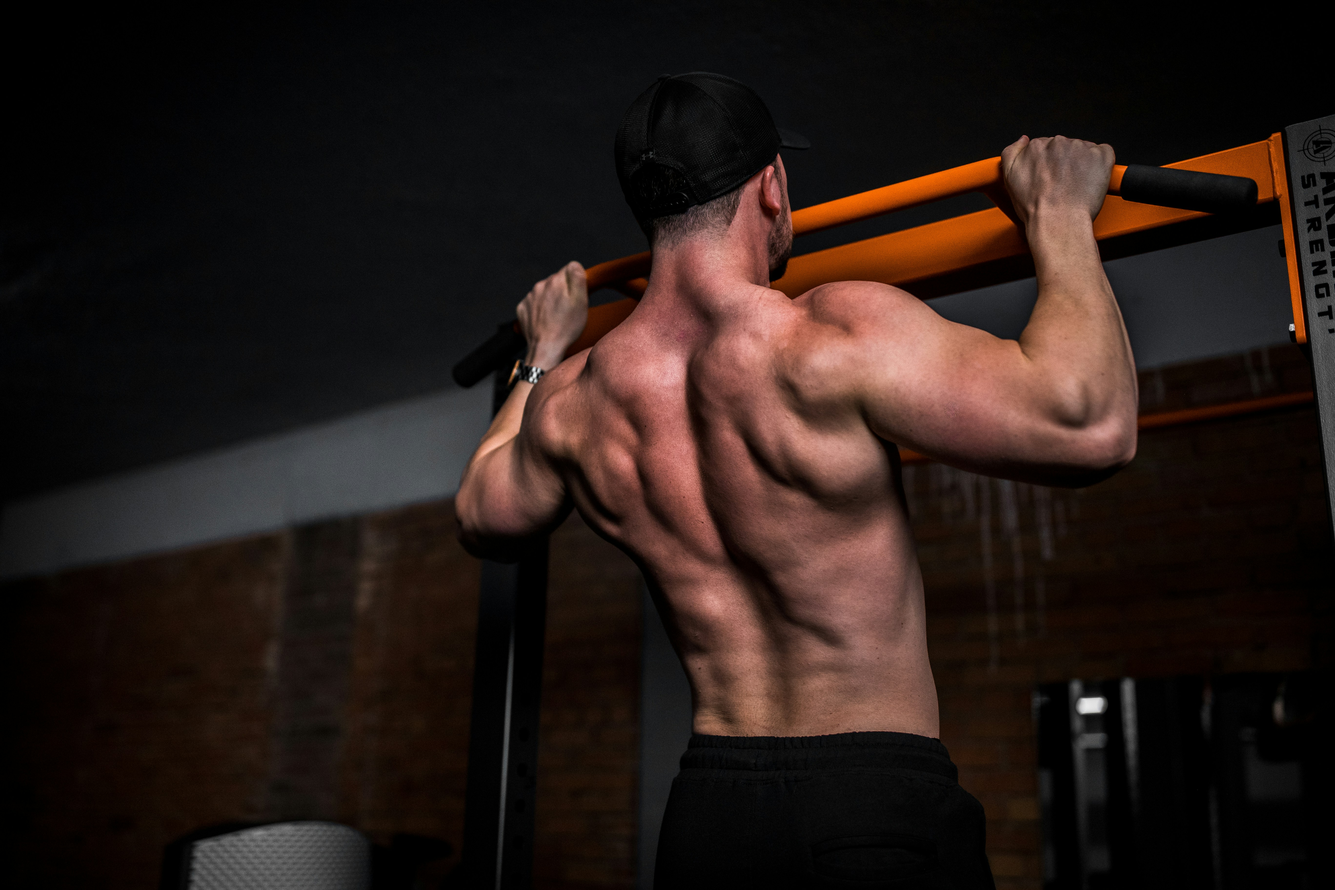
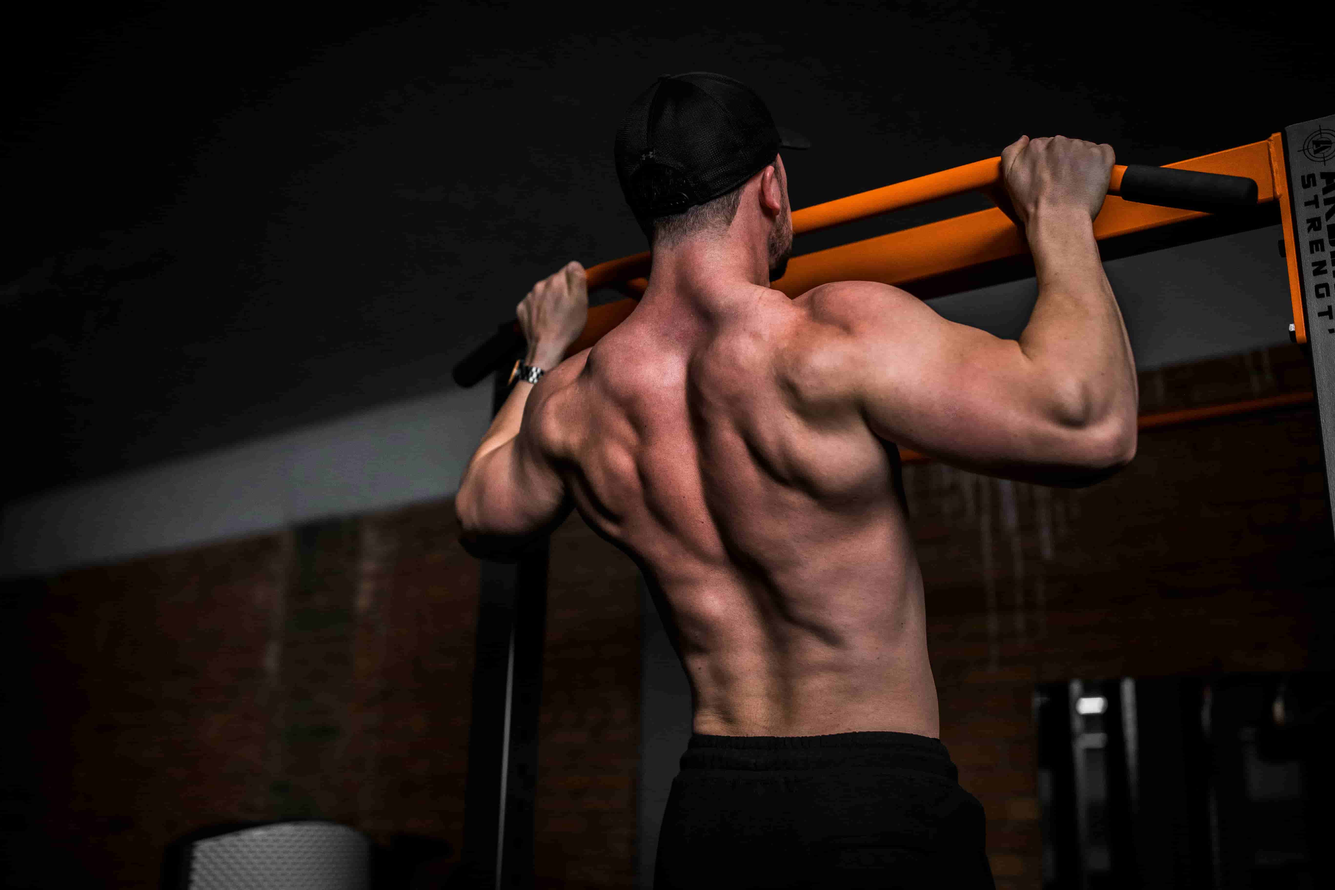
Compressed images for faster loading times

Changed region(s): [[0.5, 0.2188, 0.5625, 0.2812]]

diff --git a/src/pages/Home.jsx b/src/pages/Home.jsx
@@ -1,75 +1,109 @@
-import React from "react"
-import Container from 'react-bootstrap/Container';
+import React from "react";
+import Container from "react-bootstrap/Container";
 import HomeCard from "../components/HomeCard";
 import PlansCard from "../components/PlansCard";
-import { NavLink } from 'react-router-dom'
+import { NavLink } from "react-router-dom";
 // Images Imports
-import HomeLifting from '../images/home_lifting.jpg'
-import NutritionPic from '../images/nutrition_pic.jpg'
-import FlexIconRed from '../images/flex_icon_red.png'
-import NutritionIconRed from '../images/nutrition_icon_red.png'
+import HomeLifting from "../images/home_lifting.jpg";
+import NutritionPic from "../images/nutrition_pic.jpg";
+import FlexIconRed from "../images/flex_icon_red.png";
+import NutritionIconRed from "../images/nutrition_icon_red.png";
 
 export default function Home() {
+  const loremText =
+    "Lorem ipsum dolor sit amet, consectetur adipiscing elit, sed do eiusmod tempor incididunt ut labore et";
 
-    const loremText = "Lorem ipsum dolor sit amet, consectetur adipiscing elit, sed do eiusmod tempor incididunt ut labore et"
+  return (
+    <>
+      <div className="home-hero">
+        <Container>
+          <h1 className="home-title">
+            Transform your body. Transform your{" "}
+            <span style={{ color: "#E73539" }}>life</span>
+          </h1>
+        </Container>
+      </div>
+      <Container>
+        <HomeCard />
+      </Container>
 
-    return (
-        <>
-            <div className="home-hero">
-                <Container>
-                    <h1 className="home-title">Transform your body. Transform your <span style={{color: '#E73539'}}>life</span></h1>
-                </Container>
+      <main>
+        <section className="home-section-fitness">
+          <Container className="section home-section">
+            <div className="section-text-container home-section-text-container">
+              <h2 className="section-heading home-section-heading">Fitness</h2>
+              <p className="home-section-text">
+                Unlock your fitness potential through three distinct sub-tabs.
+                Dive into Anatomy for muscle-specific lifts, calculate your
+                one-rep max in Calculator, and master progressive overload in
+                Progression. Everything you need for a well-rounded fitness
+                experience, all in one place.
+              </p>
+              {/* Will add href prop later to Btn */}
+              <NavLink to={"fitness"} className="learn-more-link">
+                Learn More
+              </NavLink>
+              {/* <a className="learn-more-link" href="/fitness">Learn More</a> */}
             </div>
-            <Container>
-                <HomeCard />
-            </Container>
-            
-            <main>
-                <section className="home-section-fitness">
-                    <Container className="section home-section">
-                        <div className="section-text-container home-section-text-container">    
-                            <h2 className="section-heading home-section-heading">Fitness</h2>
-                            <p className="home-section-text">Unlock your fitness potential through three distinct sub-tabs. 
-                            Dive into Anatomy for muscle-specific lifts, calculate your one-rep max in Calculator,
-                             and master progressive overload in Progression. Everything you need for a well-rounded 
-                             fitness experience, all in one place.</p>
-                            {/* Will add href prop later to Btn */}
-                            <NavLink to={'fitness'} className="learn-more-link">Learn More</NavLink>
-                            {/* <a className="learn-more-link" href="/fitness">Learn More</a> */}
-                        </div>  
-                        <img className="home-section-img home-section-fitness-img" src={HomeLifting} alt="" srcset="" />
-                    </Container>
-                </section>
+            <img
+              className="home-section-img home-section-fitness-img"
+              src={HomeLifting}
+              alt=""
+              srcSet=""
+            />
+          </Container>
+        </section>
 
-                <section className="home-section-nutrition">
-                    <Container className="section home-section">
-                        <div className="section-text-container home-section-text-container">    
-                            <h2 className="section-heading home-section-heading">Nutrition</h2>
-                            <p className="home-section-text">Dive into a world of health and vitality with our Nutrition page. Whether 
-                            you're curious about your BMI or striving for balanced macronutrients, we've got you covered. Calculate your 
-                            BMI to track your fitness journey or fine-tune your diet with our Macro Nutrient Calculator.</p>
-                            {/* Will add href prop later to Btn */}
-                            <NavLink to={'nutrition'} className="learn-more-link">Learn More</NavLink>
-                        </div>  
-                        <img className="home-section-img home-section-nutrition-img" src={NutritionPic} alt="" srcset="" />
-                    </Container>
-                </section>
+        <section className="home-section-nutrition">
+          <Container className="section home-section">
+            <div className="section-text-container home-section-text-container">
+              <h2 className="section-heading home-section-heading">
+                Nutrition
+              </h2>
+              <p className="home-section-text">
+                Dive into a world of health and vitality with our Nutrition
+                page. Whether you're curious about your BMI or striving for
+                balanced macronutrients, we've got you covered. Calculate your
+                BMI to track your fitness journey or fine-tune your diet with
+                our Macro Nutrient Calculator.
+              </p>
+              {/* Will add href prop later to Btn */}
+              <NavLink to={"nutrition"} className="learn-more-link">
+                Learn More
+              </NavLink>
+            </div>
+            <img
+              className="home-section-img home-section-nutrition-img"
+              src={NutritionPic}
+              alt=""
+              srcSet=""
+            />
+          </Container>
+        </section>
 
-                <section>
-                    <Container className="section home-section home-section-plans">
-                        <h2 className="section-heading home-section-heading home-section-plans-heading">Plans</h2>
-                        <div className="plans-cards-container">
-                            <PlansCard imgUrl={FlexIconRed} title={'Fitness Plans'} text={"Whether you're aiming to build muscle, enhance your strength, or train with no equipment, our plans offer tailored workouts designed to help you achieve your fitness goals effectively."}/>
-                        </div>
-                        <NavLink to={'plans'} className="learn-more-link learn-more-link-plans">Learn More</NavLink>
-                    </Container>
-                </section>
-            </main>
-           
-            
-            
-
-        </>
-        
-    )
+        <section>
+          <Container className="section home-section home-section-plans">
+            <h2 className="section-heading home-section-heading home-section-plans-heading">
+              Plans
+            </h2>
+            <div className="plans-cards-container">
+              <PlansCard
+                imgUrl={FlexIconRed}
+                title={"Fitness Plans"}
+                text={
+                  "Whether you're aiming to build muscle, enhance your strength, or train with no equipment, our plans offer tailored workouts designed to help you achieve your fitness goals effectively."
+                }
+              />
+            </div>
+            <NavLink
+              to={"plans"}
+              className="learn-more-link learn-more-link-plans"
+            >
+              Learn More
+            </NavLink>
+          </Container>
+        </section>
+      </main>
+    </>
+  );
 }

diff --git a/src/components/HomeCard.jsx b/src/components/HomeCard.jsx
@@ -1,24 +1,38 @@
-import React from 'react'
-import FlexIcon from '../images/flex_icon.png'
-import NutritionIcon from '../images/nutrition_icon.png'
-import ClipBoardIcon from '../images/clipboard_icon.png'
+import React from "react";
+import FlexIcon from "../images/flex_icon.png";
+import NutritionIcon from "../images/nutrition_icon.png";
+import ClipBoardIcon from "../images/clipboard_icon.png";
 
 export default function HomeCard() {
-    return (
-        <div className='home-card'>
-            <div className='home-card-icon-container'>
-                <img className="home-card-icon" src={FlexIcon} alt="Icon of a man flexing his muscles" srcset="" />
-                <h3 className='home-card-icon-text'>Fitness</h3>
-            </div>
-            <div className='home-card-icon-container'>
-                <img className="home-card-icon" src={NutritionIcon} alt="Icon of a plate of healthy food" srcset="" />
-                <h3 className='home-card-icon-text'>Nutrition</h3>
-            </div>
-            <div className='home-card-icon-container'>
-                <img className="home-card-icon" src={ClipBoardIcon} alt="Icon of a clipboard with a checklist" srcset="" />
-                <h3 className='home-card-icon-text'>Plans</h3>
-            </div>
-
-        </div>
-    )
+  return (
+    <div className="home-card">
+      <div className="home-card-icon-container">
+        <img
+          className="home-card-icon"
+          src={FlexIcon}
+          alt="Icon of a man flexing his muscles"
+          srcSet=""
+        />
+        <h3 className="home-card-icon-text">Fitness</h3>
+      </div>
+      <div className="home-card-icon-container">
+        <img
+          className="home-card-icon"
+          src={NutritionIcon}
+          alt="Icon of a plate of healthy food"
+          srcSet=""
+        />
+        <h3 className="home-card-icon-text">Nutrition</h3>
+      </div>
+      <div className="home-card-icon-container">
+        <img
+          className="home-card-icon"
+          src={ClipBoardIcon}
+          alt="Icon of a clipboard with a checklist"
+          srcSet=""
+        />
+        <h3 className="home-card-icon-text">Plans</h3>
+      </div>
+    </div>
+  );
 }

diff --git a/src/components/ImageComponent.jsx b/src/components/ImageComponent.jsx
@@ -1,0 +1,39 @@
+import React, { useState, useEffect } from 'react'
+import { Blurhash } from "react-blurhash";
+
+export default function ImageComponent({ src, blurHash }) {
+    const[imageLoaded, setImageLoaded] = useState(false)
+
+    useEffect(() => {
+        const img = new Image()
+        img.onload = () => {
+            setImageLoaded(true)
+        }
+        img.src = src
+    }, [src])
+
+
+    return (
+        <>
+            <div style={{display: imageLoaded ? 'none' : 'inline'}}>
+                <Blurhash
+                    hash={blurHash}
+                    width={411}
+                    height={274}
+                    resolutionX={32}
+                    resolutionY={32}
+                    punch={1}
+                /> 
+            </div>
+            
+            {imageLoaded && (
+                <img 
+                    className='plans-blur-img' 
+                    src={src} alt="" 
+                    srcset="" 
+                    style={{display: !imageLoaded ? 'none' : 'inline'}}/>
+            )}
+            
+        </>
+    )
+}

diff --git a/src/components/PlansCard.jsx b/src/components/PlansCard.jsx
@@ -1,14 +1,13 @@
-import React from 'react'
+import React from "react";
 
-export default function PlansCard({ imgUrl, title, text}) {
-    return (
-        <div className='plans-card'>
-            <div className='plans-card-circle'>
-                <img className='plans-card-icon' src={imgUrl} alt="" srcset="" />
-            </div>
-            <h3>{title}</h3>
-            <p>{text}</p>
-            
-        </div>
-    )
+export default function PlansCard({ imgUrl, title, text }) {
+  return (
+    <div className="plans-card">
+      <div className="plans-card-circle">
+        <img className="plans-card-icon" src={imgUrl} alt="" srcSet="" />
+      </div>
+      <h3>{title}</h3>
+      <p>{text}</p>
+    </div>
+  );
 }
